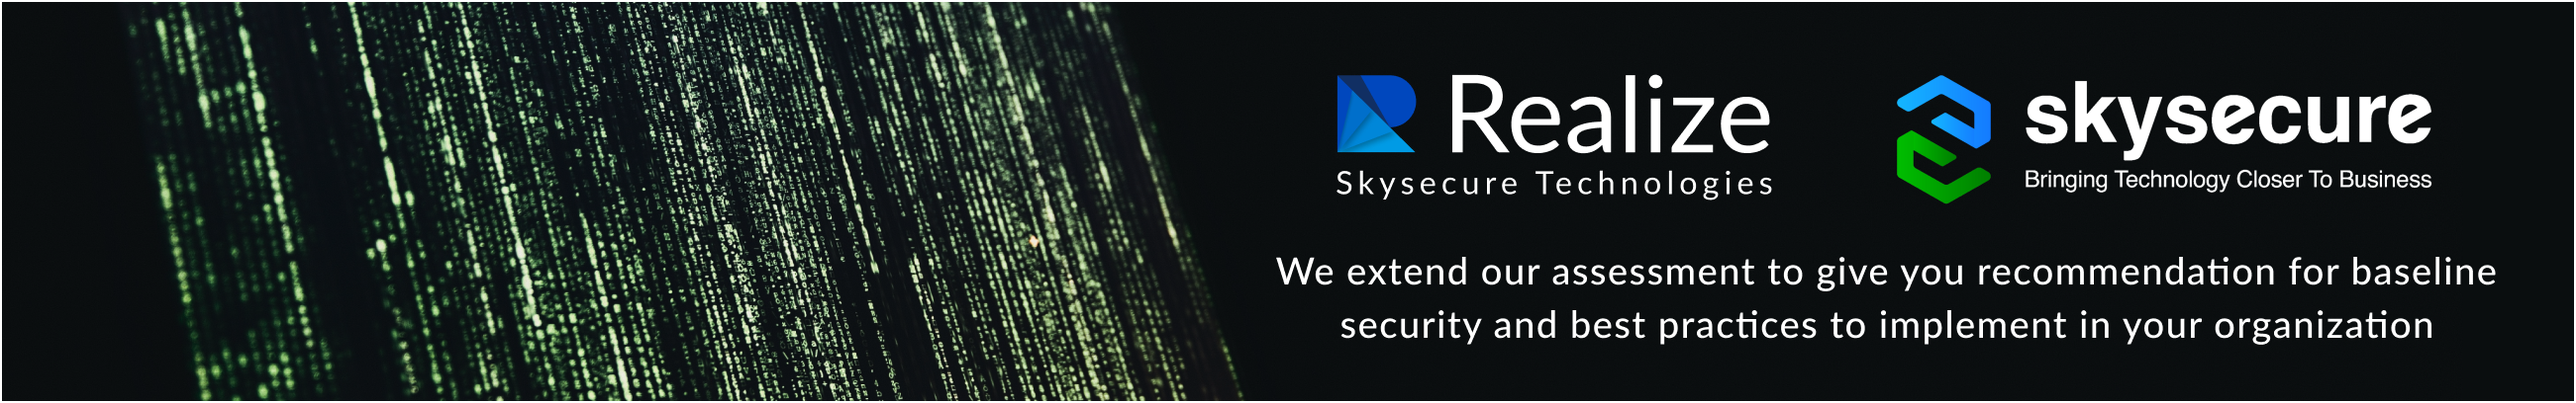
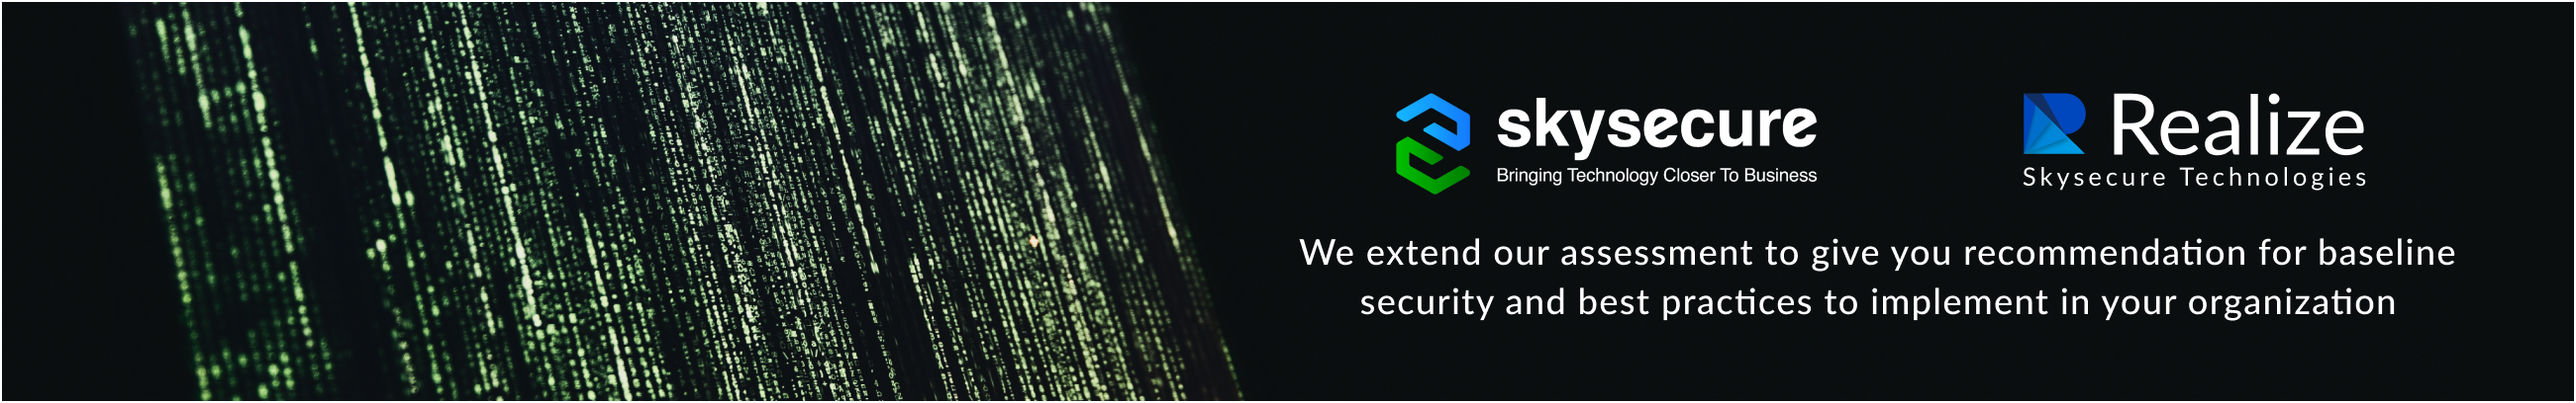
Homepage dummy promotional placeholder completed
1. banner is for about
2. is for OEM based banner
3. is for realize based banner

Changed region(s): [[0.4981, 0.1765, 0.965, 0.5], [0.4981, 0.5882, 0.965, 0.8529]]

diff --git a/src/app/routes/home-page/carousel/carousel.component.ts b/src/app/routes/home-page/carousel/carousel.component.ts
@@ -27,7 +27,7 @@ export class CarouselComponent {
       eventLocation:'',
       eventDescription:'',
       // img: '../../../../assets/images/banner/AzureActiveDirectory.png',
-      img: '../../../../assets/images/banner/FacilityForProductBundles.png',
+      img: '../../../../assets/images/banner/MicrosoftOEMBanner.png',
       eventStartDate: new Date('2019/07/28'),
       eventEndingDate: new Date('2019/07/30')
     },

diff --git a/src/app/routes/home-page/home-page.component.html b/src/app/routes/home-page/home-page.component.html
@@ -95,6 +95,7 @@
 </div>
 
 <div class="body-container">
+    <carousel></carousel>
     <div class="aboutus-container">
         <div class="container-headline">
             <h4>About our Platform</h4>

diff --git a/src/app/routes/home-page/carousel/carousel.component.css b/src/app/routes/home-page/carousel/carousel.component.css
@@ -7,6 +7,10 @@
     max-width: 1620px !important;
 }
 
+:host::ng-deep .carousel-inner  {
+    border-radius: 16px;
+}
+
 .text-style {
     font-family: 'Lato', sans-serif;
     font-weight: 400;
